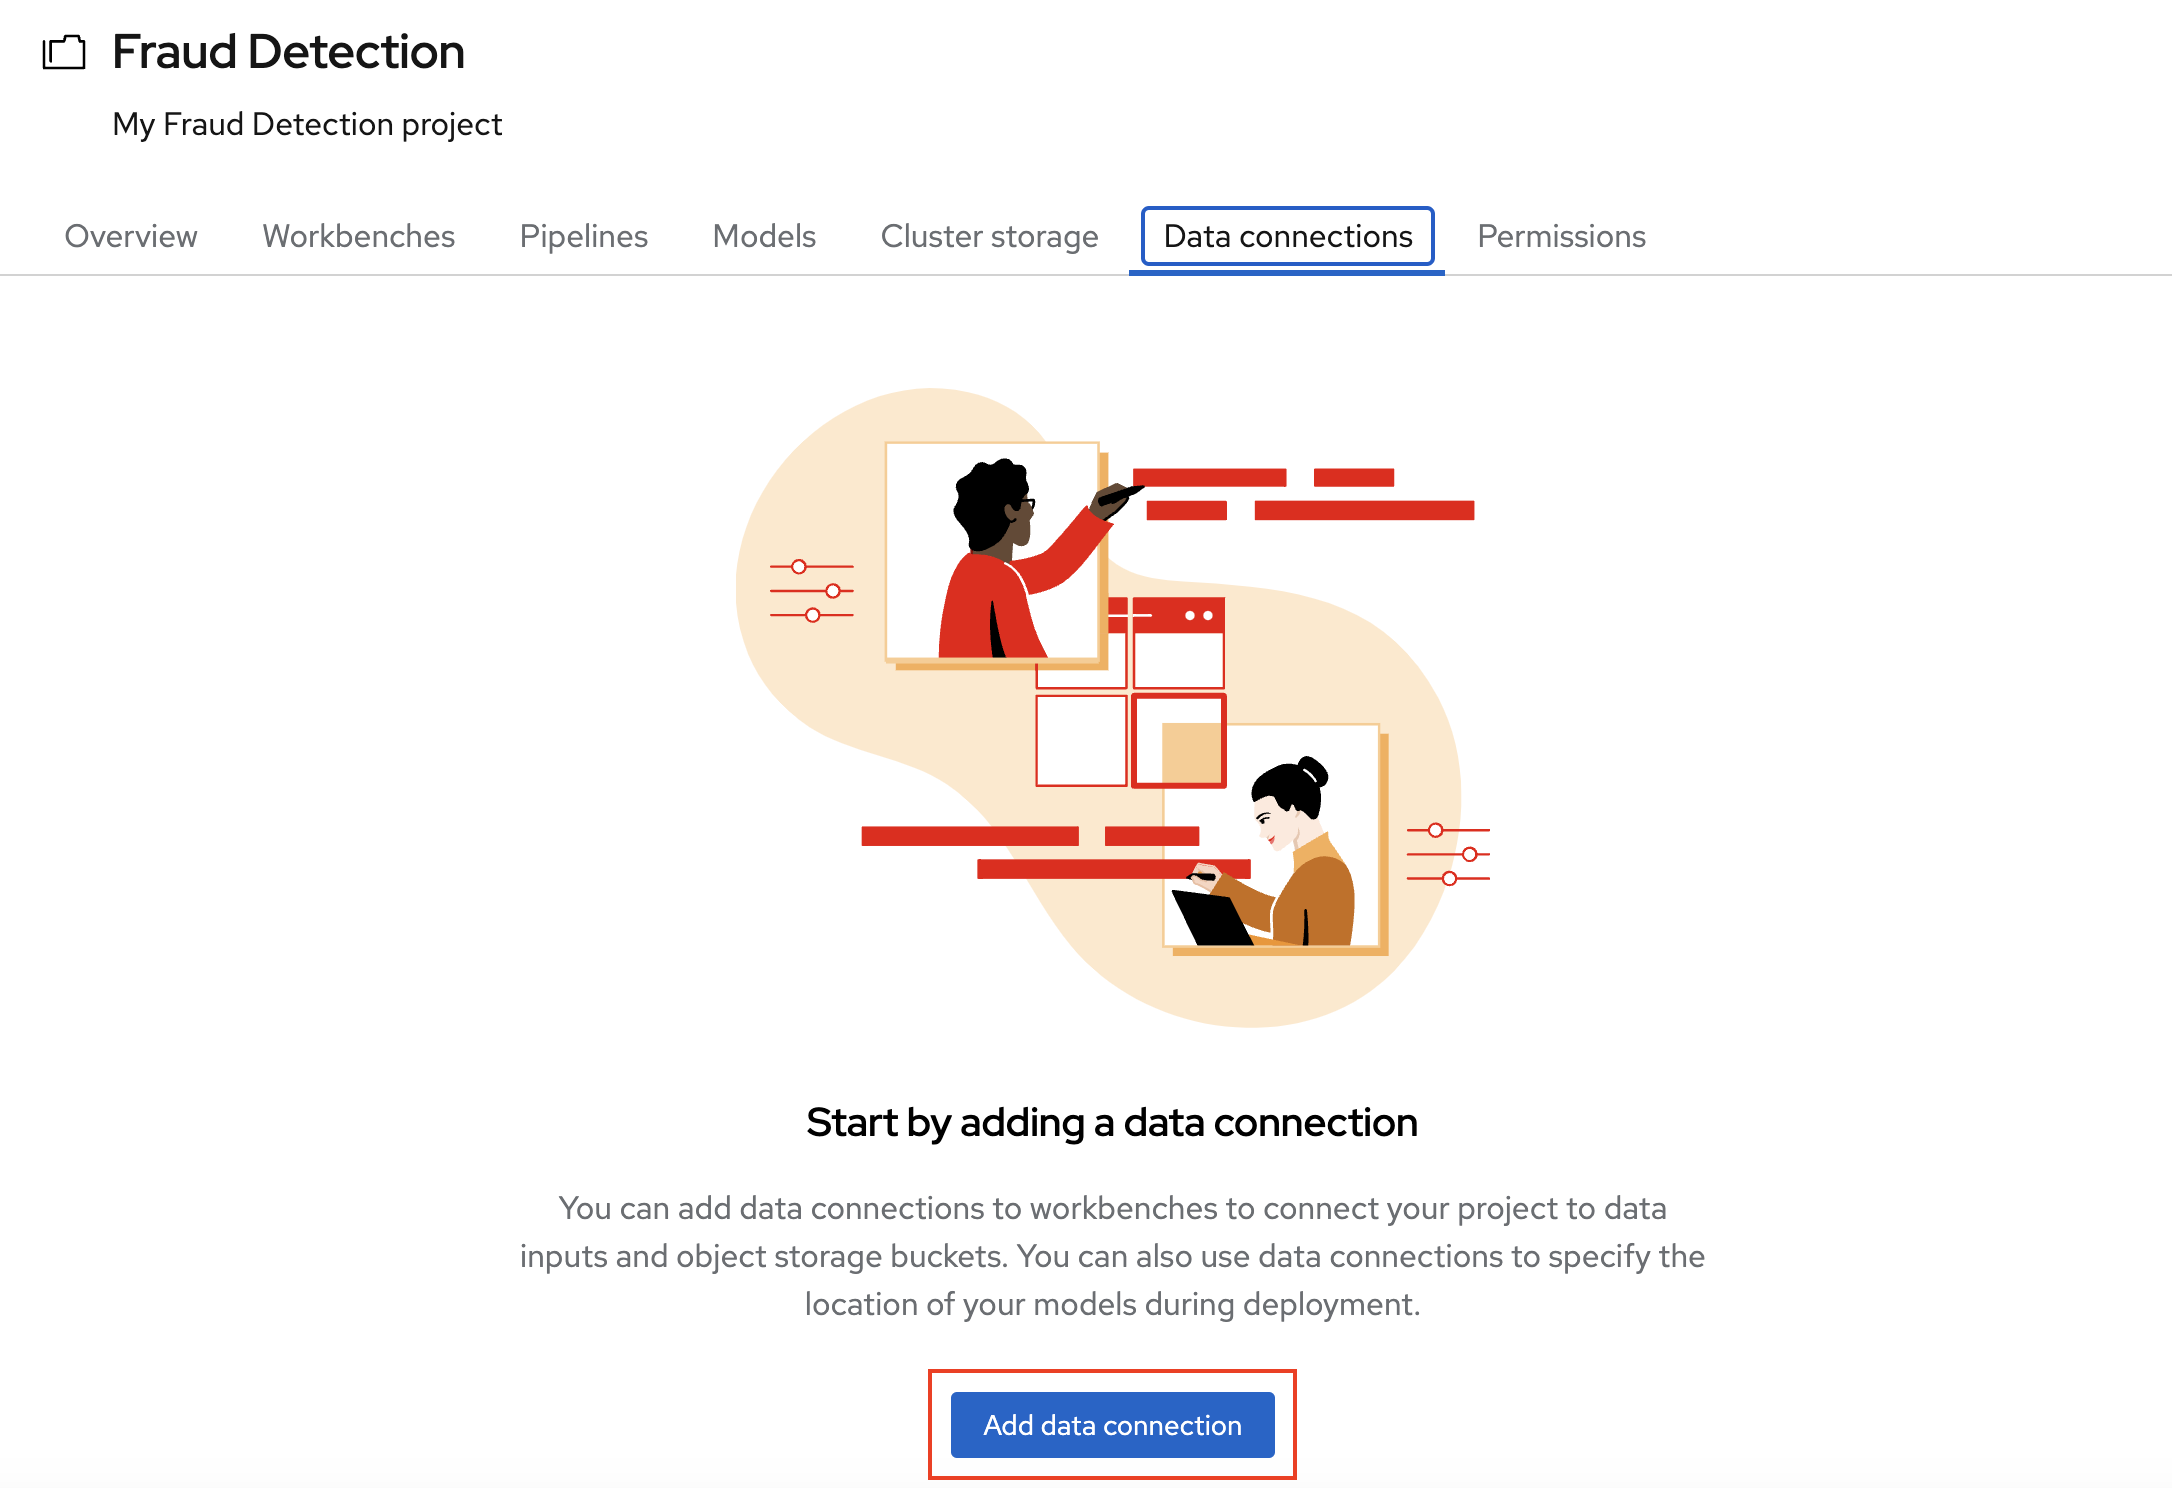
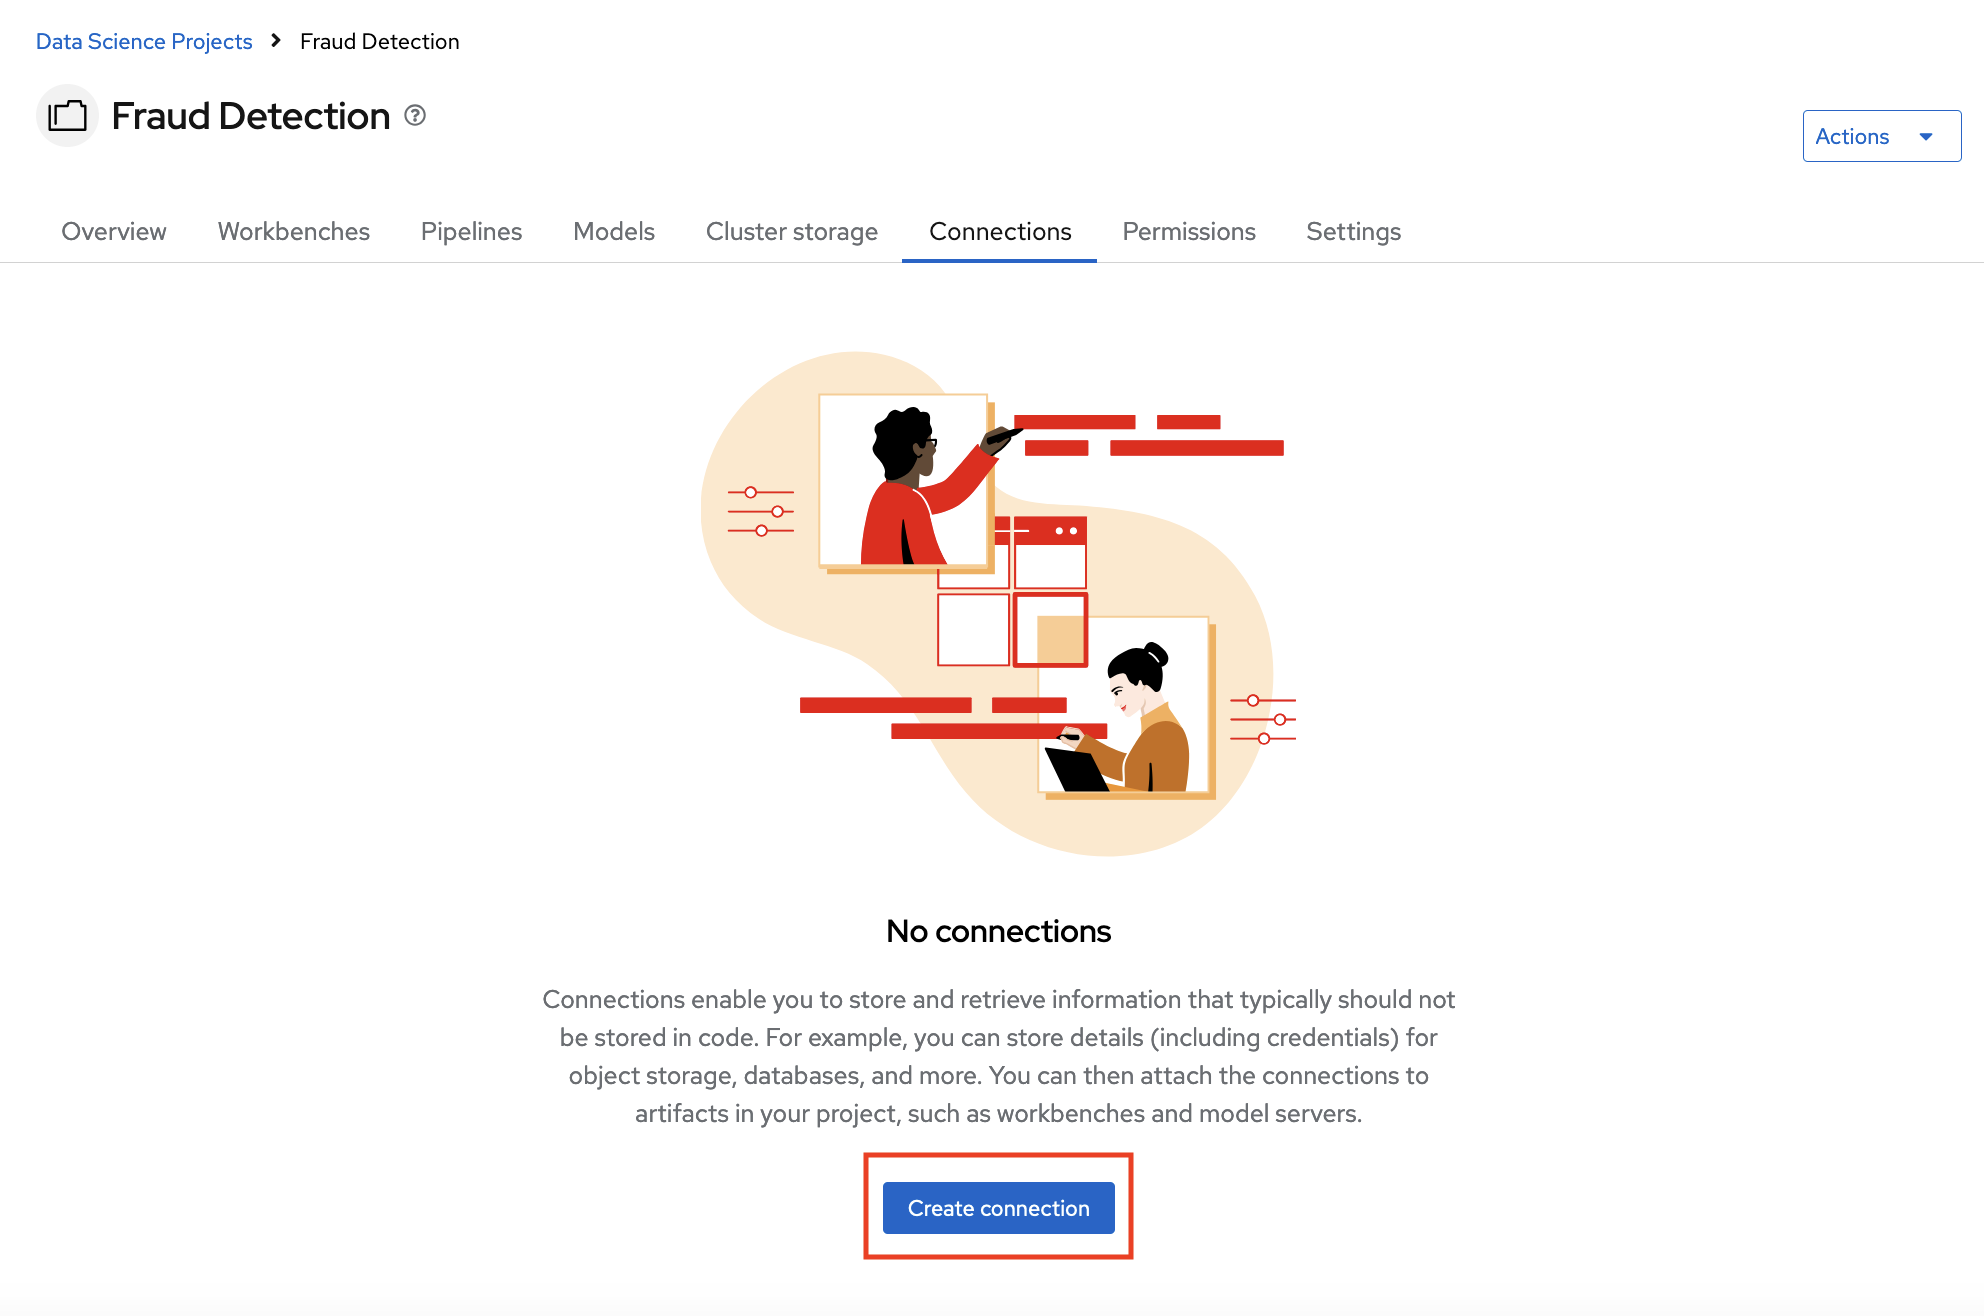
Doc update connection UI (#59)
* rhoai-9150 text change data connections to connections

* address merge conflicts 3

* address merge conflicts

* address merge conflicts 2

* more updates for data connection >connection change

* address peer review comments

diff --git a/utils/s3.py b/utils/s3.py
@@ -9,8 +9,8 @@ region_name = os.environ.get('AWS_DEFAULT_REGION')
 bucket_name = os.environ.get('AWS_S3_BUCKET')
 
 if not all([aws_access_key_id, aws_secret_access_key, endpoint_url, region_name, bucket_name]):
-    raise ValueError("One or data connection variables are empty.  "
-                     "Please check your data connection to an S3 bucket.")
+    raise ValueError("One or more connection variables are empty.  "
+                     "Please check your connection to an S3 bucket.")
 
 session = boto3.session.Session(aws_access_key_id=aws_access_key_id,
                                 aws_secret_access_key=aws_secret_access_key)
